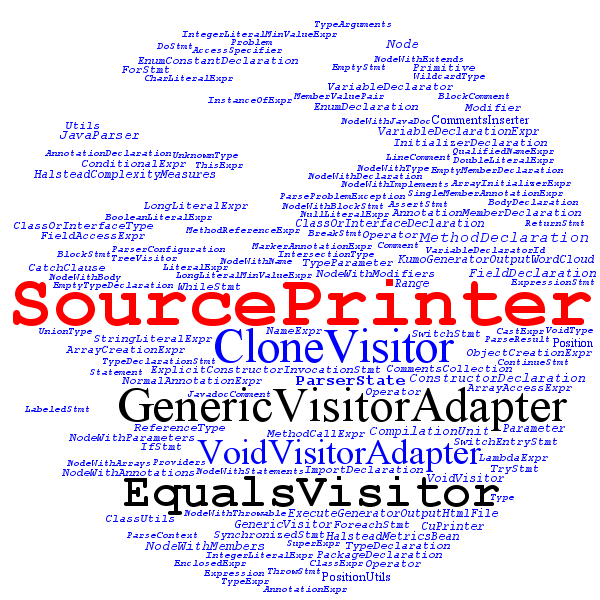
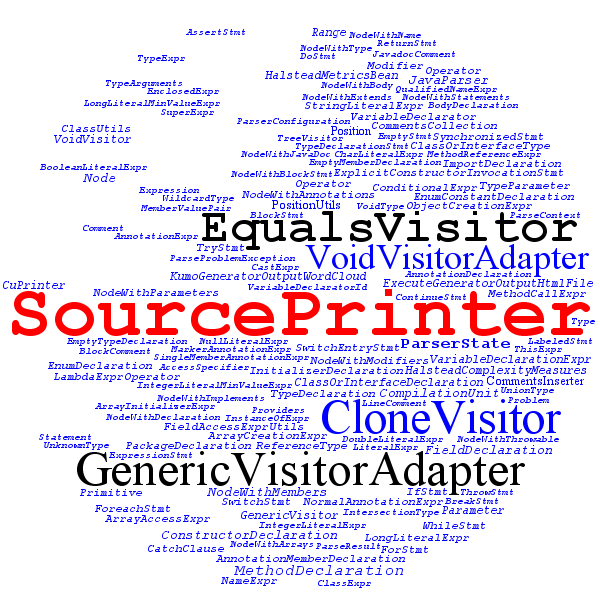
14-11-2016

Changed region(s): [[0.0, 0.03, 1.0, 0.99]]

diff --git a/kumo/entradaHtml/index.html b/kumo/entradaHtml/index.html
@@ -34,7 +34,7 @@
 	            				<span aria-hidden="true" class="icon_check list-icon"></span> <strong>Volumen:</strong> El volumen está representado a través del <strong>tamaño</strong> de letra, aquellos nombres con mayor tamaño indican que poseen un mayor volumen en comparación con los de menor tamaño.
 	            			</li>
 	            			<li>
-	            				<span aria-hidden="true" class="icon_check list-icon"></span> <strong>Efuerzo:</strong> El esfuerzo para implementar o entender un programa es proporcional al volumen y al nivel de dificultad del programa. <font FACE="arial" color="#0040FF">Azul</font> (menos esfuerzo), <font FACE="arial" color="#000000">Negro</font> (intermedio) y <font FACE="arial" color="#DF0101">Rojo</font> (más esfuerzo).
+	            				<span aria-hidden="true" class="icon_check list-icon"></span> <strong>Esfuerzo:</strong> El esfuerzo para implementar o entender un programa es proporcional al volumen y al nivel de dificultad del programa. <font FACE="arial" color="#0040FF">Azul</font> (menos esfuerzo), <font FACE="arial" color="#000000">Negro</font> (intermedio) y <font FACE="arial" color="#DF0101">Rojo</font> (más esfuerzo).
 	            			</li>
 	            			<li>
 	            				<span aria-hidden="true" class="icon_check list-icon"></span> <strong>Dificultad:</strong>El nivel de dificultad o la tendencia al error del programa es Proporcional al número de operadores únicos en el programa. Aquellos con tipo de letra <b>Bold</b> son más propensos a errores, aquellos con tipo de letra

diff --git a/javaparser-core/src/main/java/com/github/javaparser/metrics/kumo/KumoGeneratorOutputWordCloud.java b/javaparser-core/src/main/java/com/github/javaparser/metrics/kumo/KumoGeneratorOutputWordCloud.java
@@ -7,8 +7,6 @@ import java.io.IOException;
 import java.io.InputStream;
 import java.util.ArrayList;
 import java.util.List;
-import java.util.Random;
-
 import com.kennycason.kumo.CollisionMode;
 import com.kennycason.kumo.WordCloud;
 import com.kennycason.kumo.WordFrequency;
@@ -20,9 +18,7 @@ import com.kennycason.kumo.nlp.FrequencyAnalyzer;
 import com.kennycason.kumo.palette.ColorPalette;
 
 public class KumoGeneratorOutputWordCloud {
-	
-	private static final Random RANDOM = new Random();
-			
+				
 	public static void kumoGenerateOutputWordCloud(String fileWordCloudToWrite, ArrayList<HalsteadMetricsBean> halstedMetricsList) throws IOException{
 	    final FrequencyAnalyzer frequencyAnalyzer = new FrequencyAnalyzer();
 	    frequencyAnalyzer.setWordFrequenciesToReturn(600);
@@ -33,7 +29,6 @@ public class KumoGeneratorOutputWordCloud {
 	    wordCloud.setPadding(1);
 	    wordCloud.setBackground(new CircleBackground(300));
 	    wordCloud.setBackgroundColor(Color.WHITE);
-	    //wordCloud.setColorPalette(buildRandomColorPalette(250));
 	    wordCloud.setColorPalette(buildBlackColorPalette(2));
 	    wordCloud.setAngleGenerator(new AngleGenerator(0));
 	    InputStream inp = new FileInputStream("kumo/font/OpenSansEmoji.ttf");
@@ -42,14 +37,6 @@ public class KumoGeneratorOutputWordCloud {
 	    wordCloud.build(buildWordFrequenciesByHashMap(halstedMetricsList));
 	    wordCloud.writeToFile(fileWordCloudToWrite);
 	}
-
-    private static ColorPalette buildRandomColorPalette(int n) {
-        final Color[] colors = new Color[n];
-        for(int i = 0; i < colors.length; i++) {
-            colors[i] = new Color(RANDOM.nextInt(230) + 25, RANDOM.nextInt(230) + 25, RANDOM.nextInt(230) + 25);
-        }
-        return new ColorPalette(colors);
-    }
     
     private static ColorPalette buildBlackColorPalette(int n) {
         final Color[] colors = new Color[n];

diff --git a/javaparser-core/src/main/java/com/kennycason/kumo/WordCloud.java b/javaparser-core/src/main/java/com/kennycason/kumo/WordCloud.java
@@ -257,18 +257,7 @@ public class WordCloud {
         //KumoFont kumoFontAux = new KumoFont(kumoFont.getFont().DIALOG, FontWeight.BOLD);
         
         KumoFont kumoFontAux = getKumoFontByDificulty(0, maxDifficulty, wordFrequency.getDifficulty());
-        
-        /*
-        if(wordFrequency.getFrequency() < 400){
-        	kumoFontAux = new KumoFont(kumoFont.getFont().MONOSPACED, FontWeight.BOLD);
-        }
-        if(wordFrequency.getFrequency() >= 400 && wordFrequency.getFrequency() < 500){
-        	kumoFontAux = new KumoFont(kumoFont.getFont().SERIF, FontWeight.PLAIN);
-        }
-        if(wordFrequency.getFrequency() >= 500){
-        	kumoFontAux = new KumoFont(kumoFont.getFont().DIALOG, FontWeight.ITALIC);
-        }*/
-        
+                
         final Font font = kumoFontAux.getFont().deriveFont(fontHeight);
         //jfernandez fin
         

diff --git a/javaparser-core/src/main/java/com/kennycason/kumo/WordFrequency.java b/javaparser-core/src/main/java/com/kennycason/kumo/WordFrequency.java
@@ -1,7 +1,5 @@
 package com.kennycason.kumo;
 
-import java.awt.Color;
-
 /**
  * Created by kenny on 6/29/14.
  */
